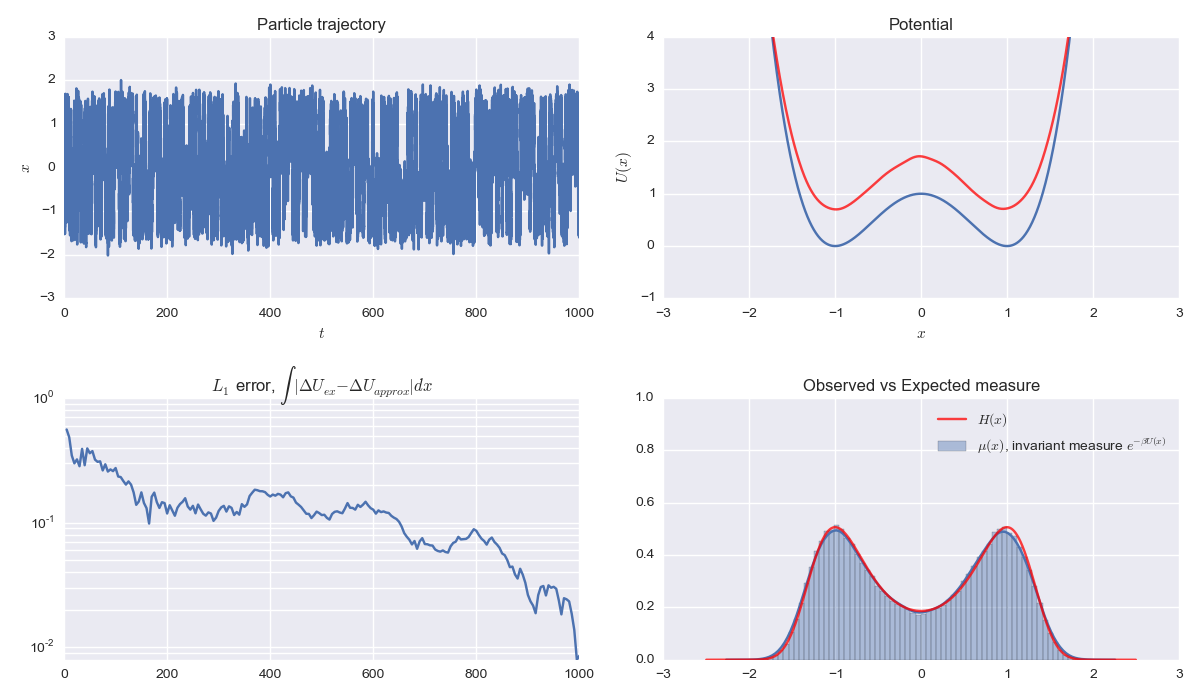
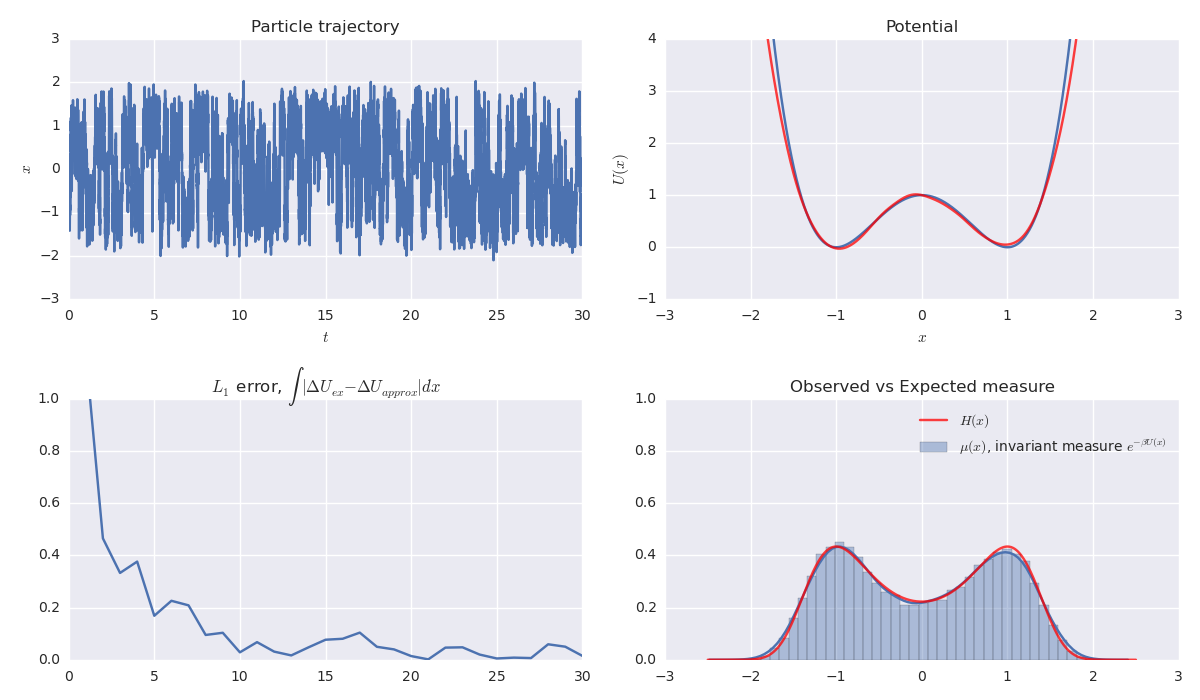
Another large refactoring of double well code. Almost to the point where everything is compartmentalized.

diff --git a/MODELS/double_well/src/plots_double_well.py b/MODELS/double_well/src/plots_double_well.py
@@ -1,0 +1,59 @@
+import numpy as np
+from scipy.stats.kde import gaussian_kde as KDE
+from scipy.integrate import quad
+
+import pylab as plt
+import seaborn as sns
+
+def plot_simulation(S, err):
+
+    xbounds = 2.5
+    xp = np.linspace(-xbounds,xbounds,1000)
+    fig, axes = plt.subplots(2, 2, figsize=(12, 7))
+
+    ax = axes[0,0]
+    ax.set_title(r"Particle trajectory")
+
+    T,X = S.traj_t, S.traj_x
+    ax.plot(T,X)
+    ax.set_xlim(min(T),max(T))
+    ax.set_xlabel(r"$t$")
+    ax.set_ylabel(r"$x$")
+
+    ax = axes[0,1]
+    ax.set_title(r"Potential")
+    ax.plot(xp,S["potential"](xp))
+    ax.set_ylim(-1, 4)
+    ax.set_xlabel(r"$x$")
+    ax.set_ylabel(r"$U(x)$")
+
+    # Plot the estimated potential
+    H = KDE(X)
+    U = -np.log(H(xp))*S["kT"]
+
+    # Shift the estimated potential down for visual aide
+    # (only relative differences matter anyways)
+    U += S["potential"](0) + np.log(H(0))*S["kT"]
+
+    ax.plot(xp,U,color='r',alpha=.75)
+
+    ax = axes[1,1]
+    ax.set_title(r"Observed vs Expected measure")
+    sns.distplot(X,ax=ax,label=r"$\mu(x)$, invariant measure $e^{-\beta U(x)}$")
+
+    invariant_norm = quad(S.invariant_measure, -xbounds, xbounds)[0]
+    target = S.invariant_measure(xp) / invariant_norm
+
+    ax.plot(xp,target,'r',alpha=.75,label=r"$H(x)$")
+    ax.set_ylim(0,1)
+    ax.legend(loc=0)
+
+    ax = axes[1,0]
+    err_t = S.traj_metric_t
+    ax.set_title(r"$L_1$ error, $\int \ |\Delta U_{ex} - \Delta U_{approx}| dx$")
+    ax.plot(err_t,err)
+    ax.set_xlim(min(T),max(T))
+    ax.set_ylim(ymin=0,ymax=1)
+    plt.tight_layout()
+    plt.show()
+

diff --git a/MODELS/double_well/src/sim_double_well_SDE.py b/MODELS/double_well/src/sim_double_well_SDE.py
@@ -1,5 +1,7 @@
+import json
 import numpy as np
 from numpy.random import normal
+import metrics_double_well as metrics
 
 '''
 Overdamped Langevin dynamics in a double well potential
@@ -109,7 +111,8 @@ class double_well(overdamped_langevin):
 
 class sim_double_well(double_well):
     ''' 
-    Runs the simulation for the double well, computes the metric at defined timesteps.
+    Runs the simulation for the double well, 
+    computes the metric at defined timesteps.
     '''
 
     def __init__(self, **simulation_args):
@@ -171,3 +174,21 @@ class sim_double_well(double_well):
 
                 print "Simulation time", self["ti"]
 
+def load_parameters(f_json):
+    '''
+    Loads a JSON file with the system parameters in it.
+    Checks if the metric function is a valid known function.
+    '''
+
+    with open(f_json) as FIN:
+        try:
+            params = json.loads(FIN.read())
+        except Exception as ex:
+            err_msg = "Problem with json file: {} {}".format(f_json, ex)
+            raise ValueError(err_msg)
+
+        # Turn the loaded string SIM_metric_func into a function
+        func_name = "{}.{}".format("metrics", params["SIM_metric_func"])
+        params["SIM_metric_func"] = eval(func_name)
+
+    return params

diff --git a/MODELS/double_well/alg_EnergyBarrier_equilibrium.py b/MODELS/double_well/alg_EnergyBarrier_equilibrium.py
@@ -1,0 +1,45 @@
+from src.sim_double_well_SDE import sim_double_well, load_parameters
+from src.metrics_double_well import average_activation_energy
+
+import json
+import numpy as np
+
+
+'''
+SAMPLING METHOD: Standard
+This simulation is the test case, e.g. 
+the standard dynamics with no enchanced sampling.
+
+Computes the energy barrier between a double well using overdamped 
+Langevin dynamics with an Euler-Maruyama SDE.
+'''
+
+# Load the simulation parameters
+
+f_json = "simulation_setups/example_EnergyBarrier.json"
+params = load_parameters(f_json)
+
+S = sim_double_well(**params)
+S.run()
+
+# Compute the exact value for error measurements
+Um0, Ub, Um1 = map(S["potential"], [-1,0,1])
+exact_avg_activation_energy = np.array([Ub-Um0, Ub-Um1]).mean()
+
+# Compute the error
+err_T = S.traj_metric_t
+err   = np.abs((np.array(S.traj_metric) - exact_avg_activation_energy))
+
+# Save the results
+np.savetxt(params["f_results"],[err_T, err])
+
+'''
+Plot the results
+'''
+
+from src.plots_double_well import plot_simulation
+plot_simulation(S, err)
+    
+    
+    
+
